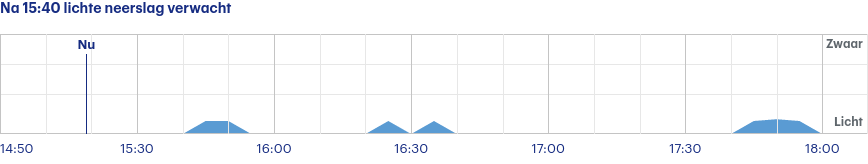
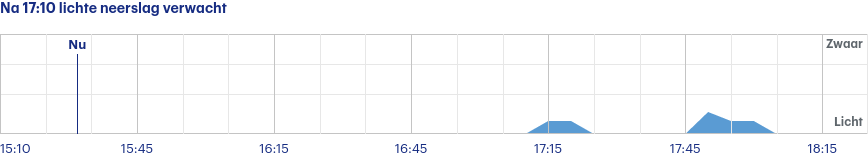
Latest scraping buienradar: Sat Jul  1 13:27:51 UTC 2023

diff --git a/scrapes/buienradar/buienradar-jette-3-uur.md b/scrapes/buienradar/buienradar-jette-3-uur.md
@@ -1,4 +1,4 @@
-Na 15:40 lichte neerslag verwacht
+Na 17:10 lichte neerslag verwacht
 
 ![](buienradar-jette-3-uur.png)
 
